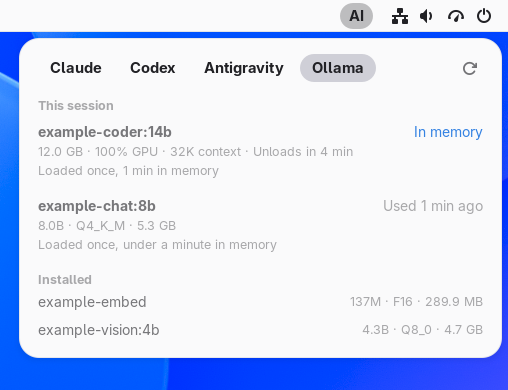
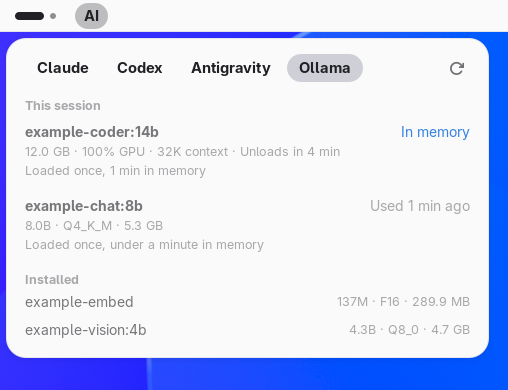
The button shows the plan name, after the workspaces at the left, by default (#202)
* The button shows the plan name, after the workspaces at the left, by default

The "AI" choice beside the percentage goes; "AI" stays only as the stand-in
while there is nothing else to show. The default place is the left of the top
bar at position 1, so the workspaces indicator keeps the corner. The shots'
click points and crops follow the new place, and the screenshots are retaken.

Fixes #201

* README: one comma

---------

diff --git a/src/lib/indicator.js b/src/lib/indicator.js
@@ -107,7 +107,7 @@ class UsageIndicator extends PanelMenu.Button {
         this._icon.visible = !!iconPath;
 
         // "AI" stands in for a plan not known yet, an icon not chosen, or an empty button.
-        const name = {ai: 'AI', plan: row.reading?.plan ?? 'AI', icon: iconPath ? null : 'AI'}[buttonLabel];
+        const name = {plan: row.reading?.plan ?? 'AI', icon: iconPath ? null : 'AI'}[buttonLabel];
         const percent = row.figure && showPercent ? formatPercent(row.figure.percent) : null;
         const text = [name, percent].filter(Boolean).join(' ') || (iconPath ? '' : 'AI');
         this._label.text = text;

diff --git a/src/prefs.js b/src/prefs.js
@@ -50,7 +50,6 @@ export default class AiUsagePreferences extends ExtensionPreferences {
         shown.add(switchRow(settings, 'show-percent', 'Show the percentage',
             'With this off the button shows only its label, tinted by how much has been used.'));
         const label = comboRow(settings, 'button-label', 'Beside the percentage', [
-            ['ai', '“AI”'],
             ['plan', 'Plan name'],
             ['icon', 'An icon'],
             ['none', 'Nothing'],

diff --git a/.claude/skills/drive-extension/SKILL.md b/.claude/skills/drive-extension/SKILL.md
@@ -10,8 +10,8 @@ steps and its settings are there. This is what is particular to AI Usage.
 
 ```bash
 ./scripts/nested.sh start --stand-in --headless   # ACTIVE when it returns
-./scripts/nested.sh click 1368 16                 # open the pop-up (1600x900, one monitor)
-./scripts/nested.sh shot $S/pop-up.png 1000 0 600 600
+./scripts/nested.sh click 117 16                  # open the pop-up (1600x900, one monitor)
+./scripts/nested.sh shot $S/pop-up.png 0 0 600 600
 ./scripts/nested.sh stop
 ```
 
@@ -24,9 +24,9 @@ steps and its settings are there. This is what is particular to AI Usage.
   replaced by `./scripts/stand-in-http.js`, which answers with invented figures. A
   provider added without an answer there shows as unavailable. `reload` re-stages `src/`
   with it (`nested_stand_in_stage`); the logins are made once per start.
-- **Where it is**: the `AI` button at the right of the top bar, about (1368, 16) on the
-  default monitor while the input session's recording indicator is in the bar (it shifts
-  everything left of it). The pop-up opens below it, tabs at the top by default.
+- **Where it is**: the button reading `Max 12%` (Claude's stand-in plan) just after the
+  workspaces at the left of the top bar, about (117, 16) on the default monitor. The pop-up
+  opens below it, tabs at the top by default.
 - **States**: `./scripts/nested.sh state PROVIDER STATE` (`claude`, `codex`,
   `antigravity`, `ollama`; `ok`, `signed-out`, `lapsed`, `expired`, `unavailable`,
   `unreachable`, `unknown-shape`, `unsupported`; Ollama only `ok`, `unavailable` and
@@ -40,7 +40,7 @@ steps and its settings are there. This is what is particular to AI Usage.
   org.gnome.shell.extensions.ai-usage tab-position bottom`. The preferences:
   `./scripts/nested.sh run gnome-extensions prefs ai-usage@jackicus`, then `do "window FILE"`.
 
-- **The Ollama tab** is the fourth, about (1429, 68) once the pop-up is open. Its
+- **The Ollama tab** is the fourth, about (324, 68) once the pop-up is open. Its
   stand-in has four models: `example-coder:14b` in memory throughout, and
   `example-chat:8b` in memory only for the first 20 s after each enable or reload,
   so it shows as used earlier. Its session figures go to the real

diff --git a/CLAUDE.md b/CLAUDE.md
@@ -68,12 +68,12 @@ the debug log on (`lib/log.js`'s `setVerbose`).
 
 ## How it behaves
 
-* **One button, `AI` and a percentage**, while a provider is live (`enabled` and
+* **One button, the plan name and a percentage**, while a provider is live (`enabled` and
   its CLI on `PATH`); the percentage is the selected tab's figure, picked by
   `primary-limit`, and tints the label by its severity. With no session limit
   (Claude Ultra) `session` takes the week across all models, never a per-model
-  row (`Reading.primary()`). `button-label` puts `AI` (default), the selected
-  provider's plan, the user's own image (`button-icon`, any format the image
+  row (`Reading.primary()`). `button-label` puts the selected provider's plan
+  (default), the user's own image (`button-icon`, any format the image
   loader reads) or nothing beside it; with nothing else to show it reads `AI`.
   **No provider logo or icon is shipped or used, and none will be** (README,
   Trademarks): the tabs carry the names, and an icon is only the user's file.
@@ -85,7 +85,8 @@ the debug log on (`lib/log.js`'s `setVerbose`).
   provider with no `OK` reading, or no reading yet, and the button with the last tab;
   it is still read, so it returns when the tool refreshes its login.
   `_syncProviders()` diffs against the live list, so toggling needs no restart.
-* Role `${uuid}`, placed in `panel-box` at `panel-index`; `_place()` rebuilds it
+* Role `${uuid}`, placed in `panel-box` at `panel-index` (default left, 1: after
+  the workspaces indicator, which keeps the corner); `_place()` rebuilds it
   to move it.
 * **Reading is lazy.** A timer (`poll-seconds`) is the fallback, skipped when
   the session has been idle for 10 minutes. The real triggers are the stored

diff --git a/README.md b/README.md
@@ -3,13 +3,14 @@
 Shows how much of your AI subscriptions' rate limits you have used, and what your local
 Ollama models did this session, as a button in the GNOME Shell top bar.
 
-![The pop-up under the top-bar button reading "AI 12%", with tabs for Claude, Codex, Antigravity and Ollama and
+![The pop-up under the top-bar button reading "Max 12%", just after the workspaces, with tabs for Claude, Codex, Antigravity and Ollama and
 Claude's limits, each with a bar and its reset time, listed below.](docs/screenshots/pop-up.png)
 
 ## What it does
 
-- **One button** showing the selected subscription's figure beside "AI", its plan name, an
-  image of your choosing or nothing, amber at 80% and red at 95%.
+- **One button**, just after the workspaces at the left of the top bar, showing the selected
+  subscription's figure beside its plan name, an image of your choosing or nothing, amber at
+  80% and red at 95%.
 - **A tab per subscription** listing the session, the week and each model, with the time
   each resets.
 - **The provider's own figures**, the same ones its command-line tool shows.
